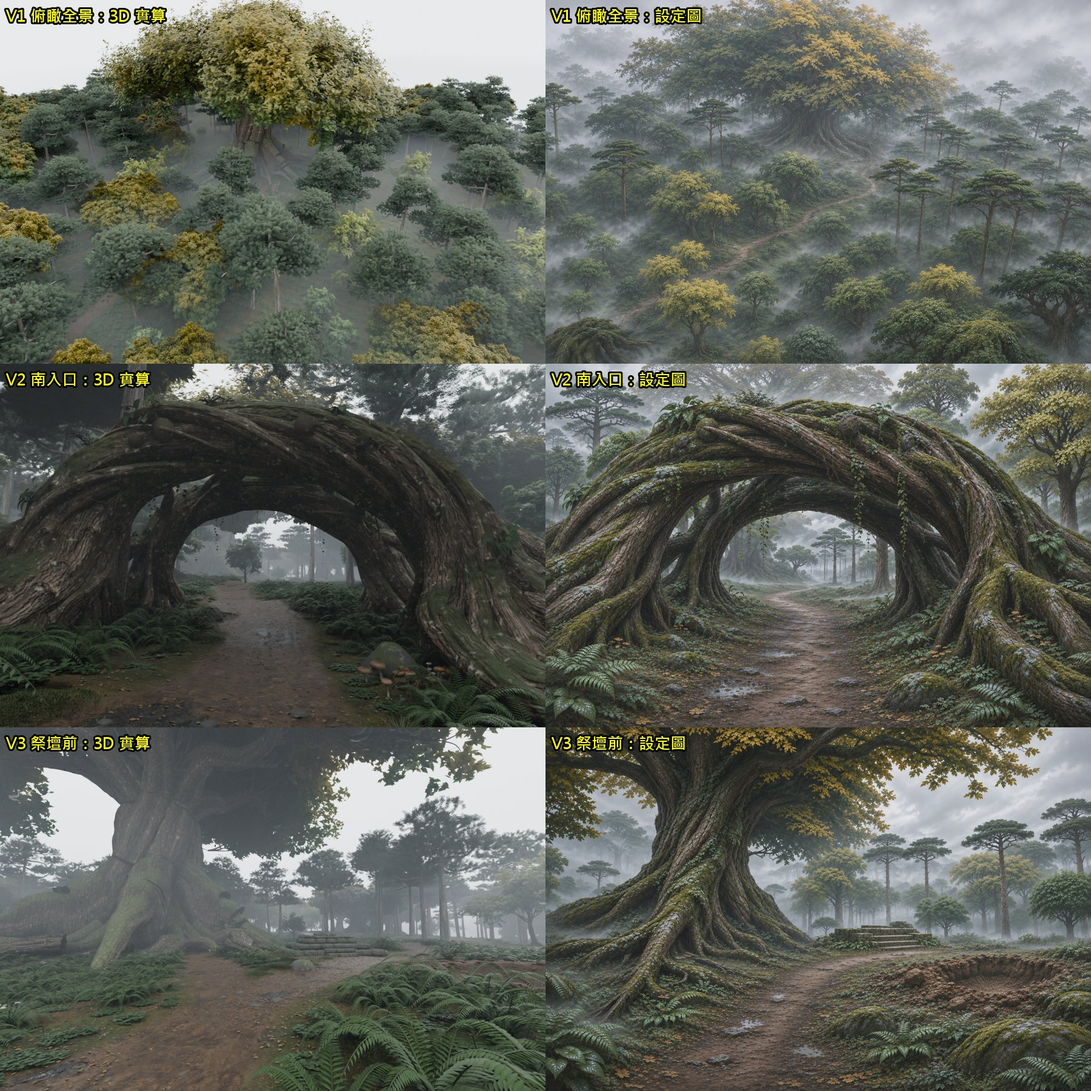
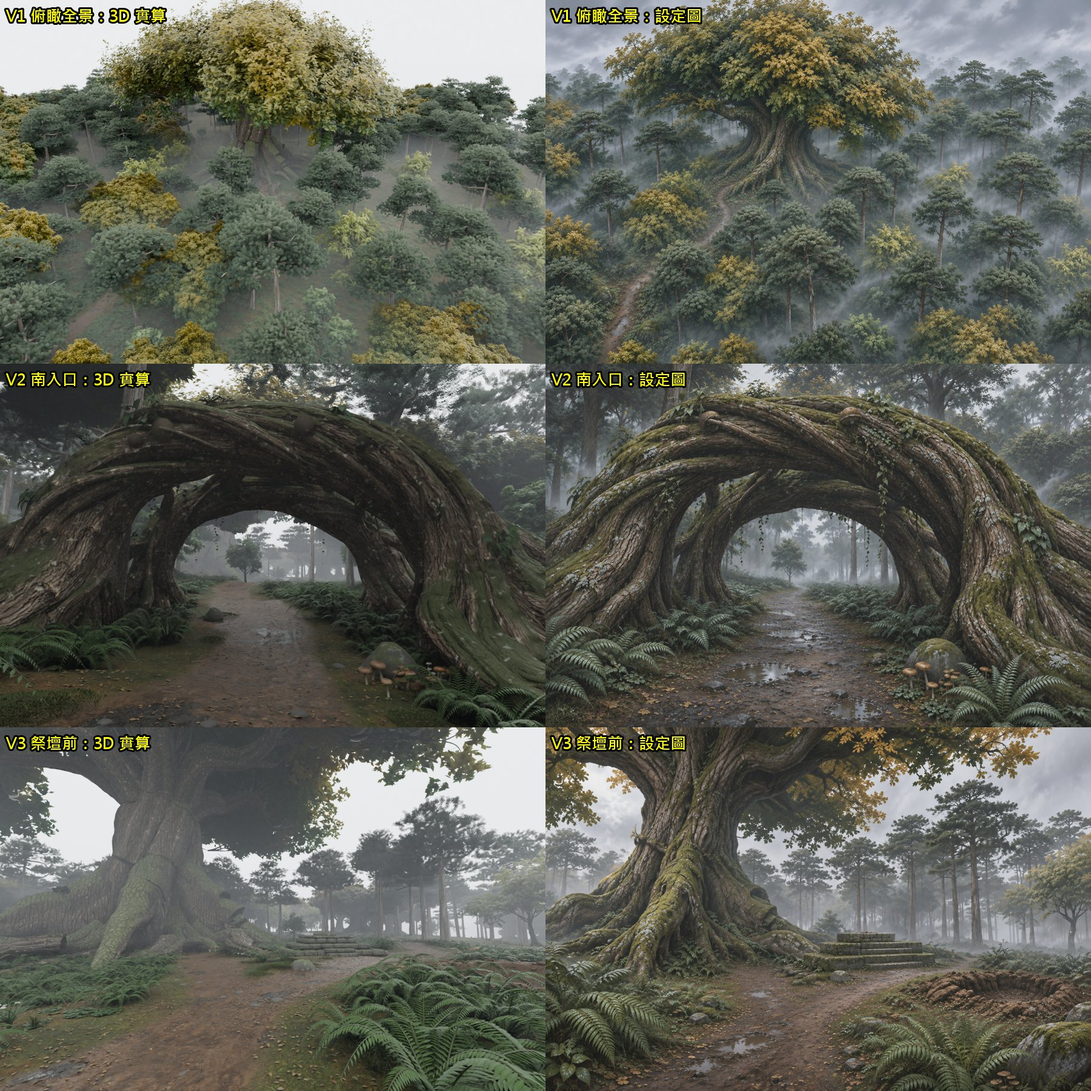
D2: six-section prompt template doc; match concept v2 - thicker moss, whiter thinner fog, less green at path/pit, furrows on god tree only

diff --git a/art/source/core-d2-v1/六段式出圖範本.md b/art/source/core-d2-v1/六段式出圖範本.md
@@ -1,0 +1,46 @@
+# 設定圖出圖範本：六段式提示
+
+> 2026-11-21，z1nnz 決定，從古樹區域 D2 開始使用。之後每個場景的設定圖都照這個格式出。
+
+## 為什麼改用這個寫法
+
+舊寫法是一段話，例如「左邊是神木、中間是祭壇」。AI 畫出來的位置和大小都不準：神木比模型細，祭壇比模型小。
+
+新寫法用固定的六段，每段都要寫，位置和大小一律寫成畫面百分比。D2 六個角度重畫之後，位置和大小都跟 3D 對上了。
+
+## 出圖流程
+
+1. 先在 Blender 照總平面擺好場景，從同一個相機位置拍一張 3D 截圖。草模或目前的實算畫面都可以。
+2. 附兩張圖給 ChatGPT：
+   - 圖 1：畫風參考圖。
+   - 圖 2：3D 截圖。
+3. 提示開頭固定寫：
+   > 圖1只當畫風與材質參考；圖2是我們遊戲 3D 場景的實際截圖，所有物件的位置、大小、透視都以圖2為準，只把它畫成精緻的概念畫。
+4. 下載原圖，跟 3D 截圖並排檢查。
+
+## 六段內容
+
+| 段 | 要寫什麼 |
+|---|---|
+| 1 Subject 主體 | 主體是什麼、在畫面哪裡（距左、距上幾 %）、佔畫寬多少；形狀、材質、苔、紋路。第二重心也照這樣寫。 |
+| 2 Style 風格 | 整體風格、主色、質感；例如「苔是橄欖綠不是鮮綠」這類容易畫錯的地方要寫出來。 |
+| 3 Shot 鏡頭 | 相機高度、焦距、俯仰；主體佔比；哪裡留白；前、中、遠景各自多清楚。 |
+| 4 Setting 場景 | 前景、中景、遠景各有什麼；列出「不能少」和「可省略」。 |
+| 5 Lighting 光照 | 光從哪來、冷暖、明暗、霧的顏色，受光面和背光面各是什麼顏色。 |
+| 6 約束 | 必須保留什麼、不能出現什麼（遠山、人物、文字）；有衝突時誰優先，原則上是圖 2 的位置優先，其次畫風。 |
+
+## 範例：D2 祭壇前（V3）
+
+【1 Subject 主體】主體是左側的神木：樹幹中軸約在距左 22%，樹幹在地面處寬約畫寬 30%……第二重心是三層石砌祭壇：位於距左約 58%、距上約 75%，寬約畫寬 12%，正面三階石階朝鏡頭……
+
+【2 Style 風格】寫實奇幻遊戲概念畫，細膩手繪質感，低飽和的綠、褐、灰為主，只有神木樹冠帶暖金黃；苔是橄欖綠不是鮮綠。
+
+【3 Shot 鏡頭】人眼高度約 1.8 公尺，28mm 廣角、深景深；神木佔畫面左半，右半上方留給霧中的傘頂松林……
+
+【4 Setting 場景】前景：濕褐色泥路、小水窪與落葉、大蕨和小石頭……不能少：神木、祭壇石階、坑、泥路、蕨、霧中松林。可省略：人物、文字。
+
+【5 Lighting 光照】陰天散射光，左上偏亮，霧是冷灰白；神木受光面是暖棕灰，背光面深褐……
+
+【6 約束】位置與大小以圖 2 為準，不要把神木畫細、不要把祭壇畫小；不要遠山、不要人物、不要文字；有衝突時以圖 2 的位置優先，其次畫風。
+
+完整六張的提示和成果在 `art/previews/core-d2-v1/plan/six/`。
